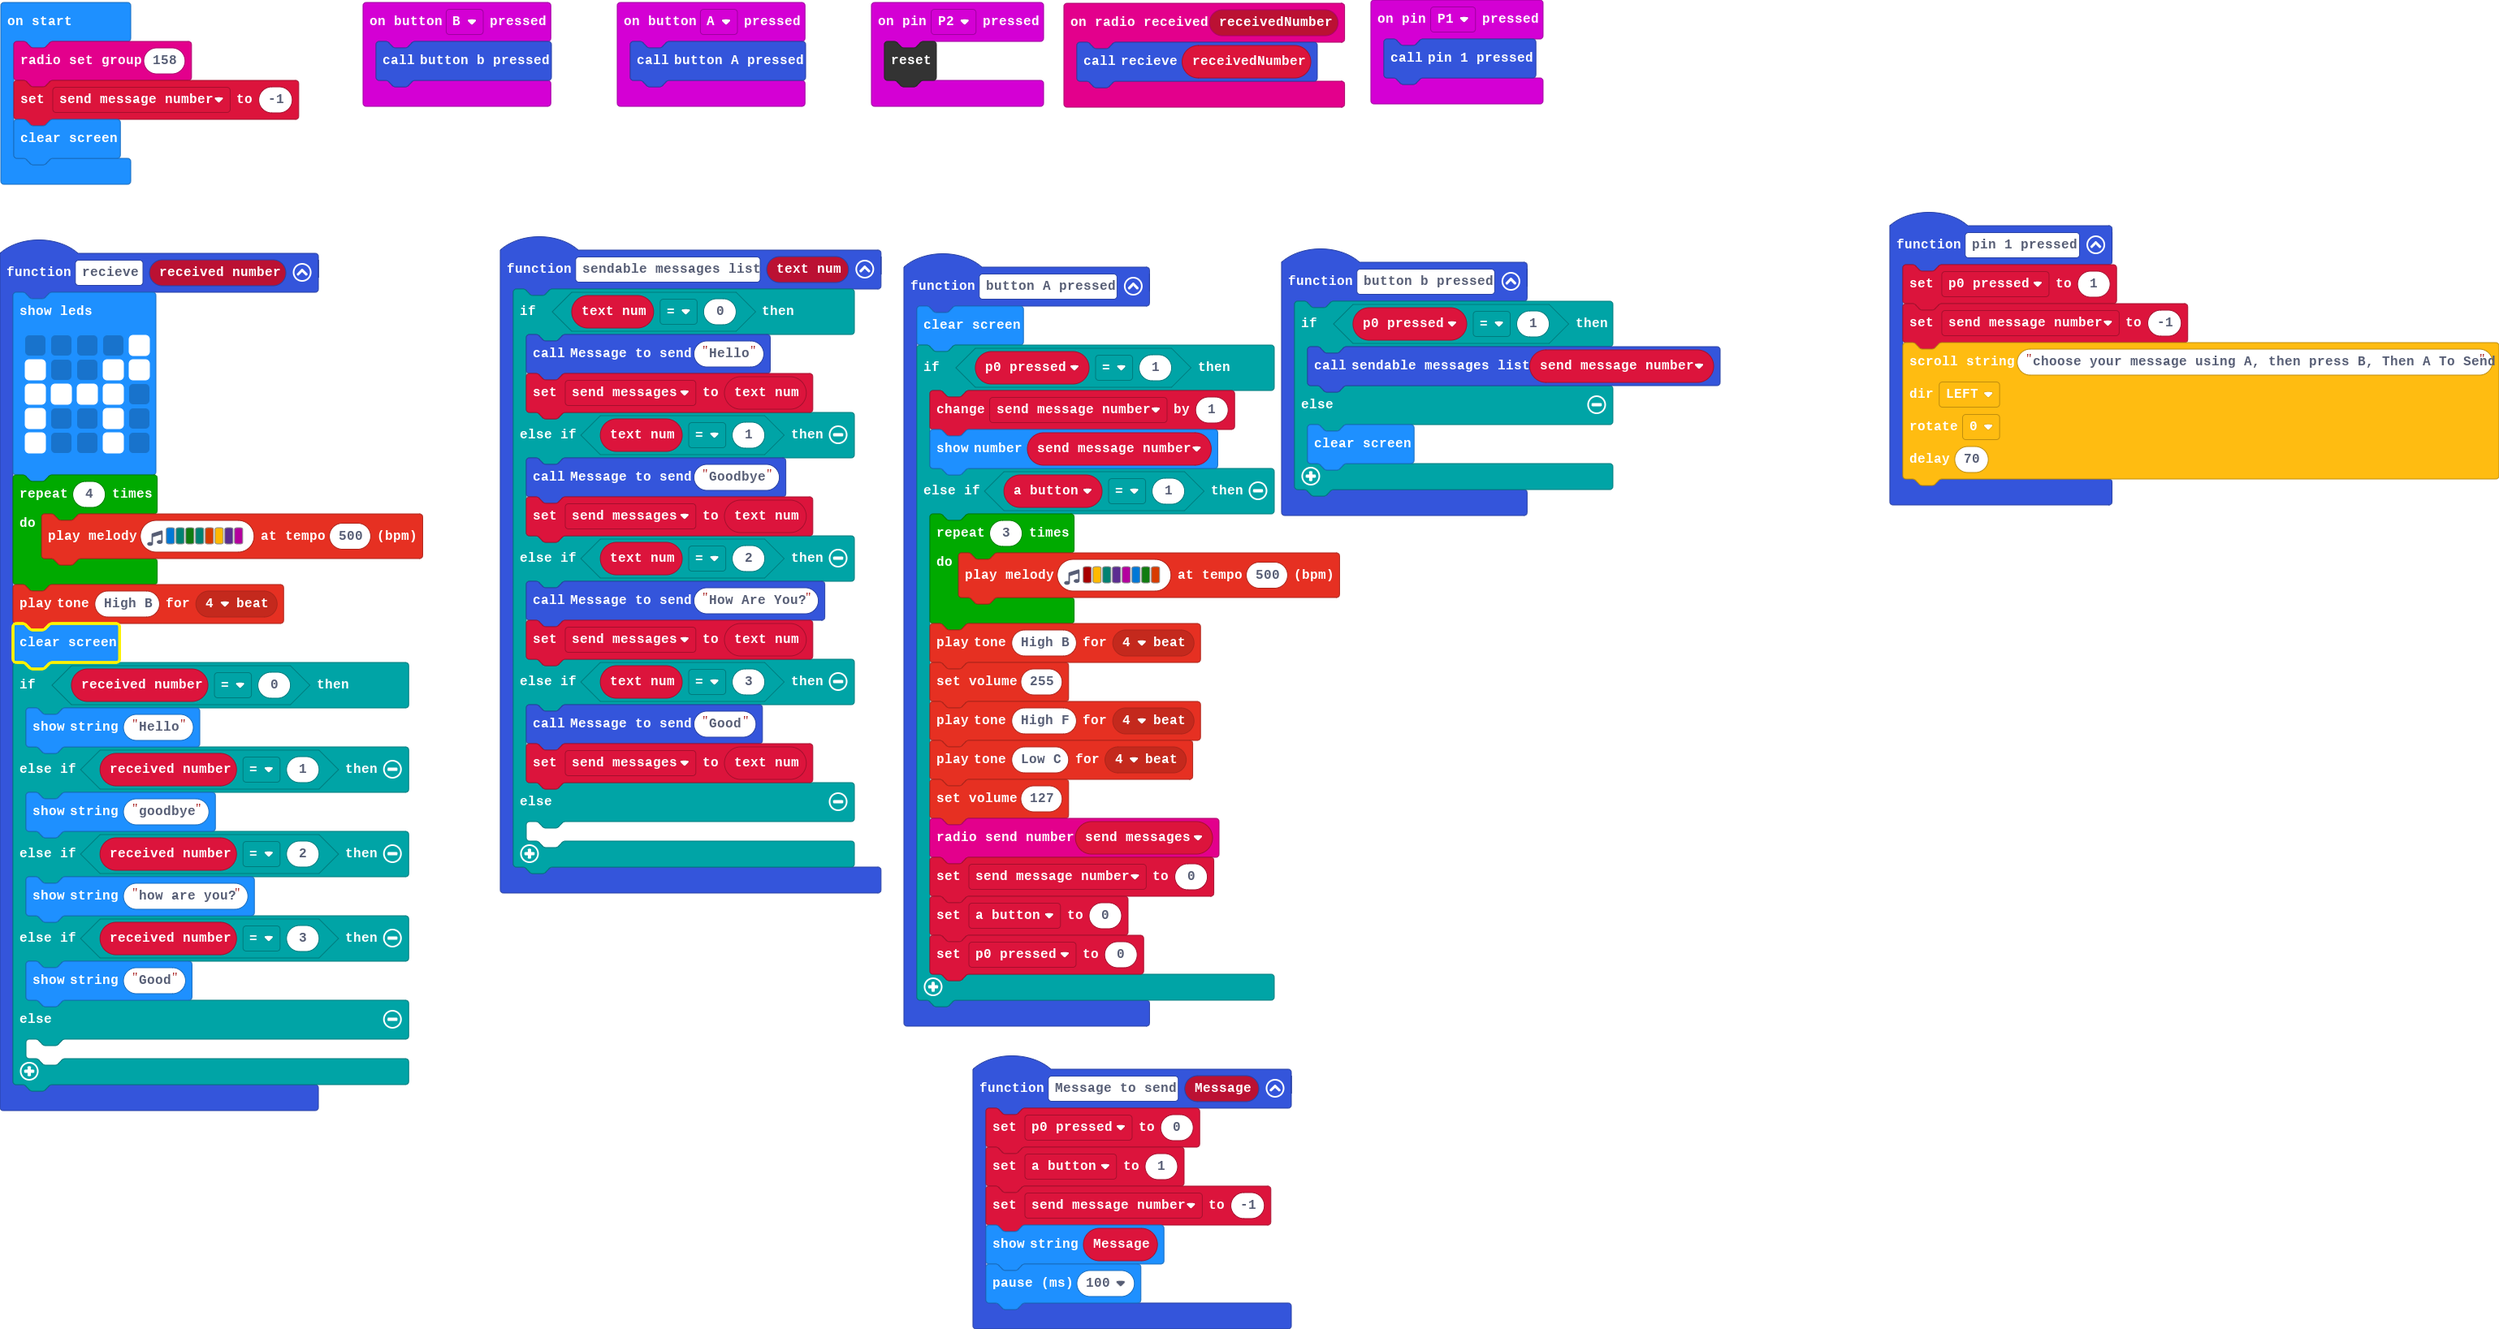
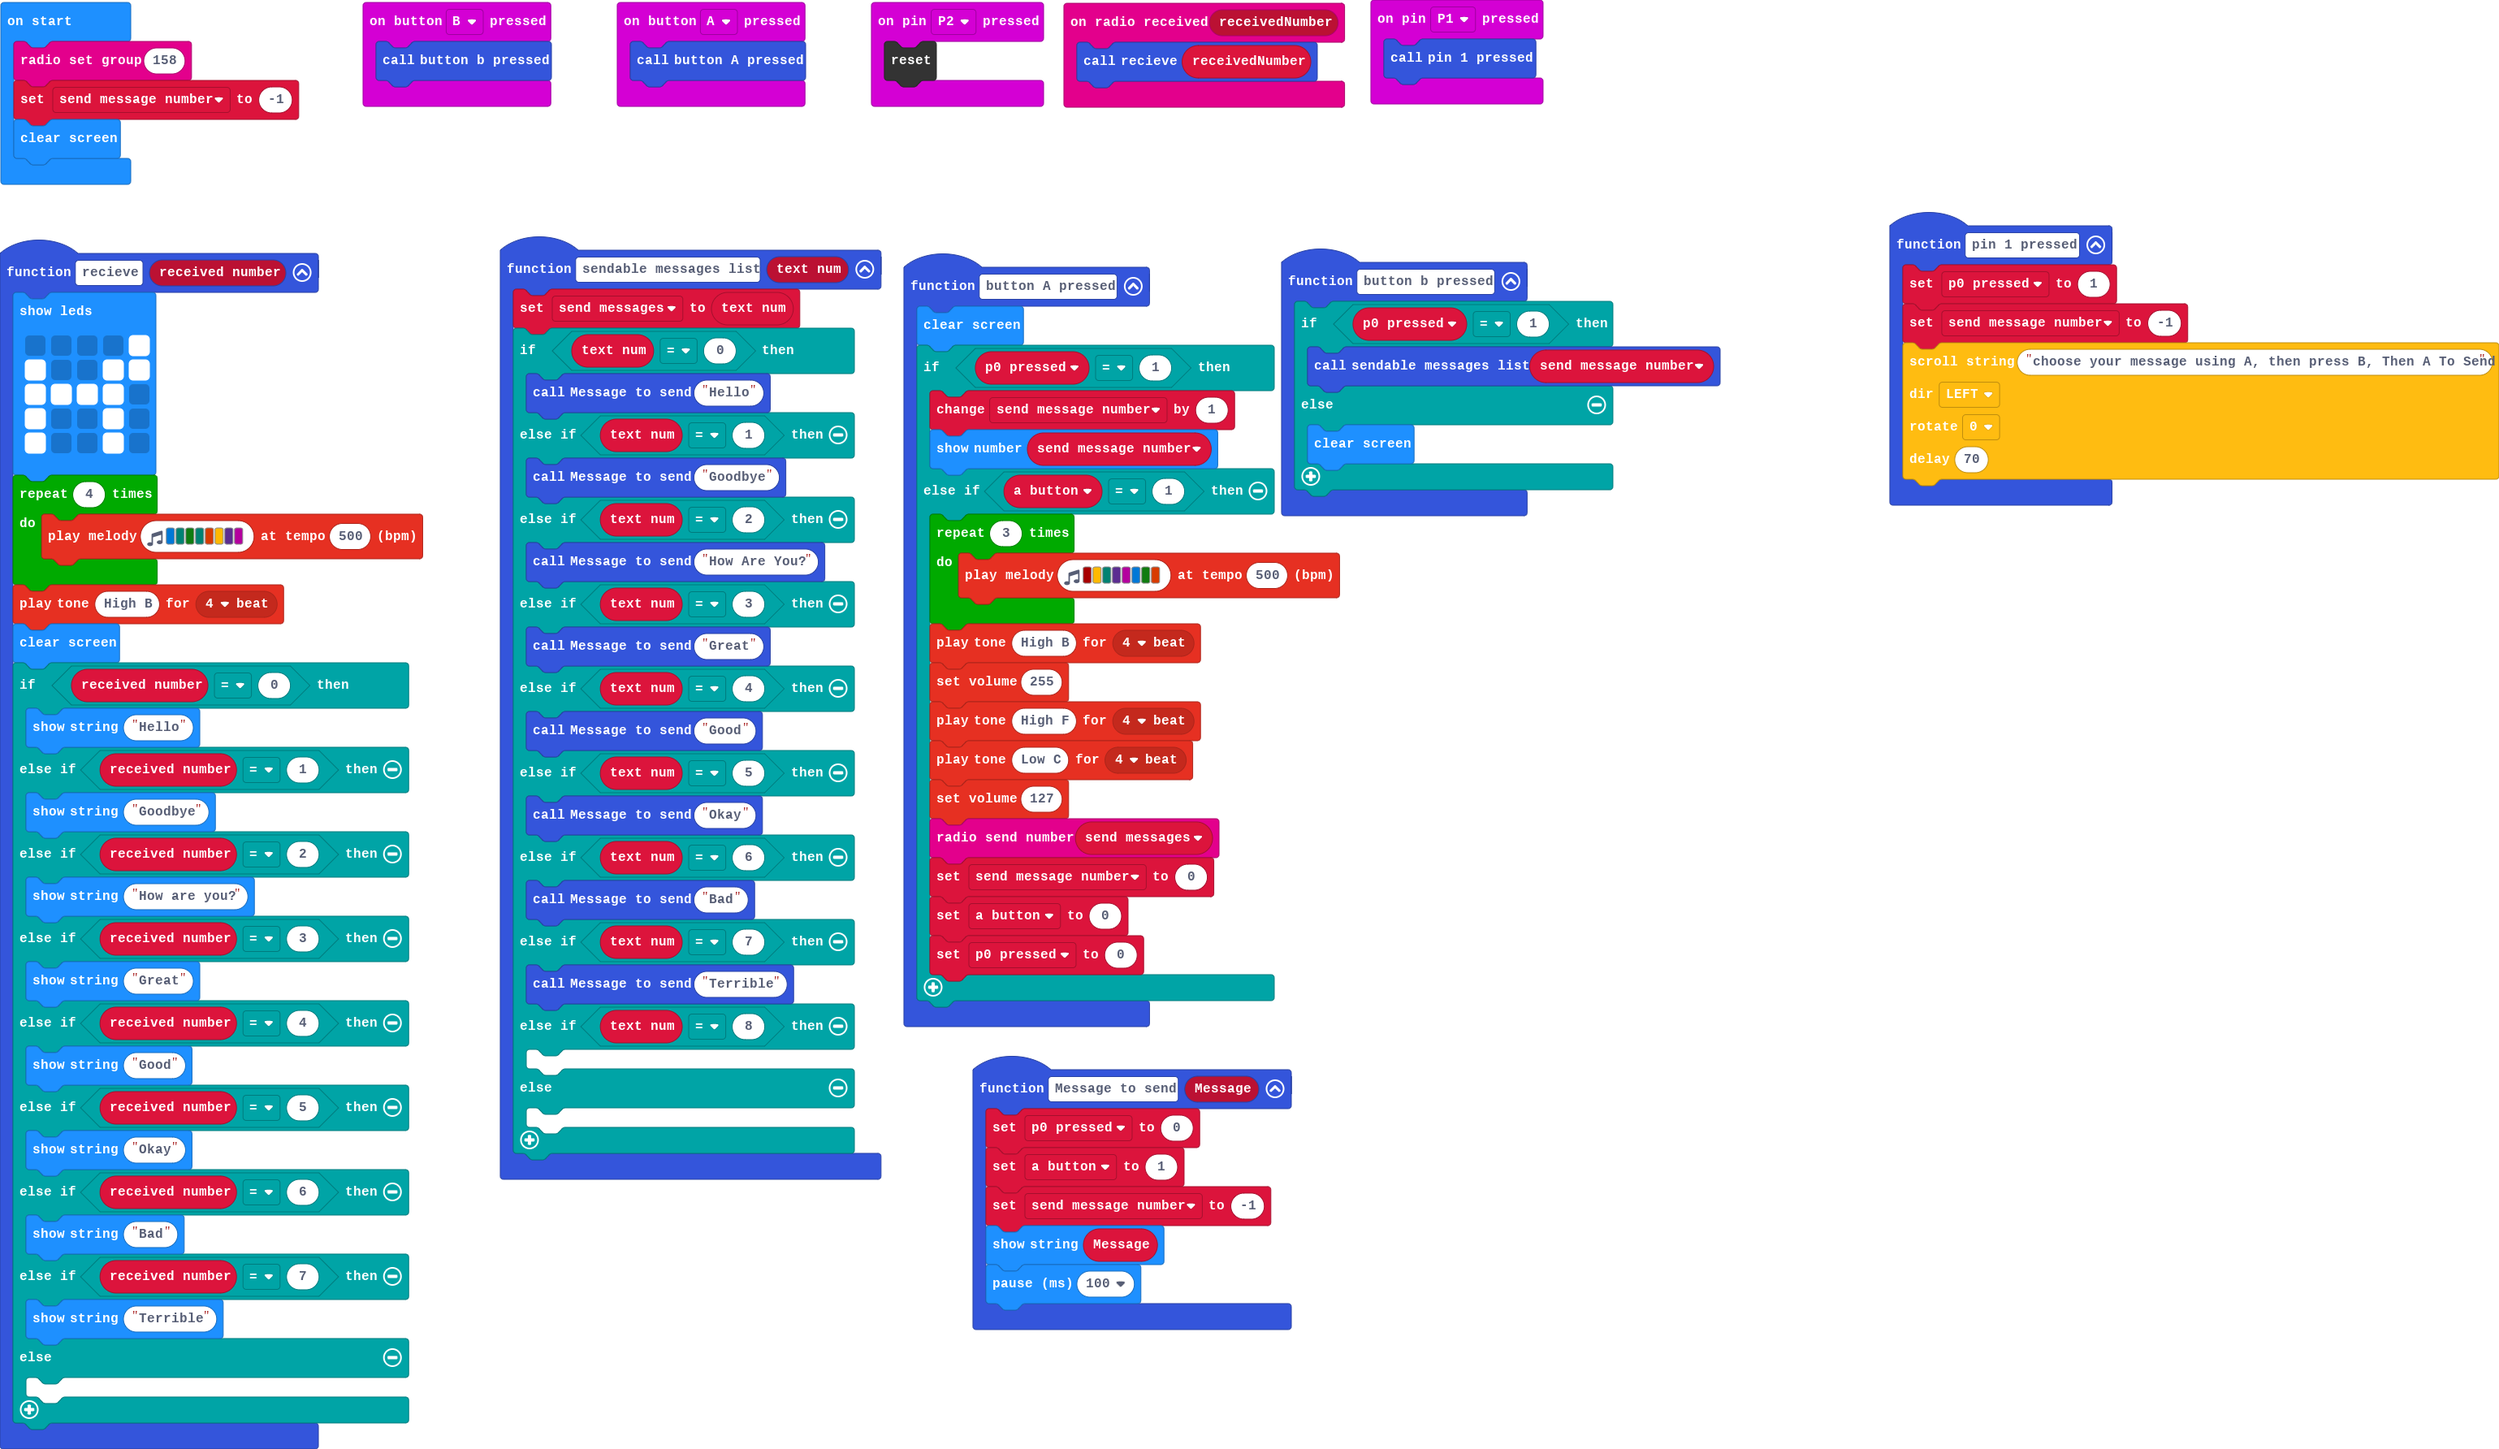
Added "Great","Okay","Bad" and "Terrible" messages

diff --git a/main.ts b/main.ts
@@ -19,18 +19,25 @@ input.onButtonPressed(Button.A, function () {
     button_A_pressed()
 })
 function sendable_messages_list (text_num: number) {
+    send_messages = text_num
     if (text_num == 0) {
         Message_to_send("Hello")
-        send_messages = text_num
     } else if (text_num == 1) {
         Message_to_send("Goodbye")
-        send_messages = text_num
     } else if (text_num == 2) {
         Message_to_send("How Are You?")
-        send_messages = text_num
     } else if (text_num == 3) {
+        Message_to_send("Great")
+    } else if (text_num == 4) {
         Message_to_send("Good")
-        send_messages = text_num
+    } else if (text_num == 5) {
+        Message_to_send("Okay")
+    } else if (text_num == 6) {
+        Message_to_send("Bad")
+    } else if (text_num == 7) {
+        Message_to_send("Terrible")
+    } else if (text_num == 8) {
+    	
     } else {
     	
     }
@@ -94,11 +101,19 @@ function recieve (received_number: number) {
     if (received_number == 0) {
         basic.showString("Hello")
     } else if (received_number == 1) {
-        basic.showString("goodbye")
+        basic.showString("Goodbye")
     } else if (received_number == 2) {
-        basic.showString("how are you?")
+        basic.showString("How are you?")
     } else if (received_number == 3) {
+        basic.showString("Great")
+    } else if (received_number == 4) {
         basic.showString("Good")
+    } else if (received_number == 5) {
+        basic.showString("Okay")
+    } else if (received_number == 6) {
+        basic.showString("Bad")
+    } else if (received_number == 7) {
+        basic.showString("Terrible")
     } else {
     	
     }
